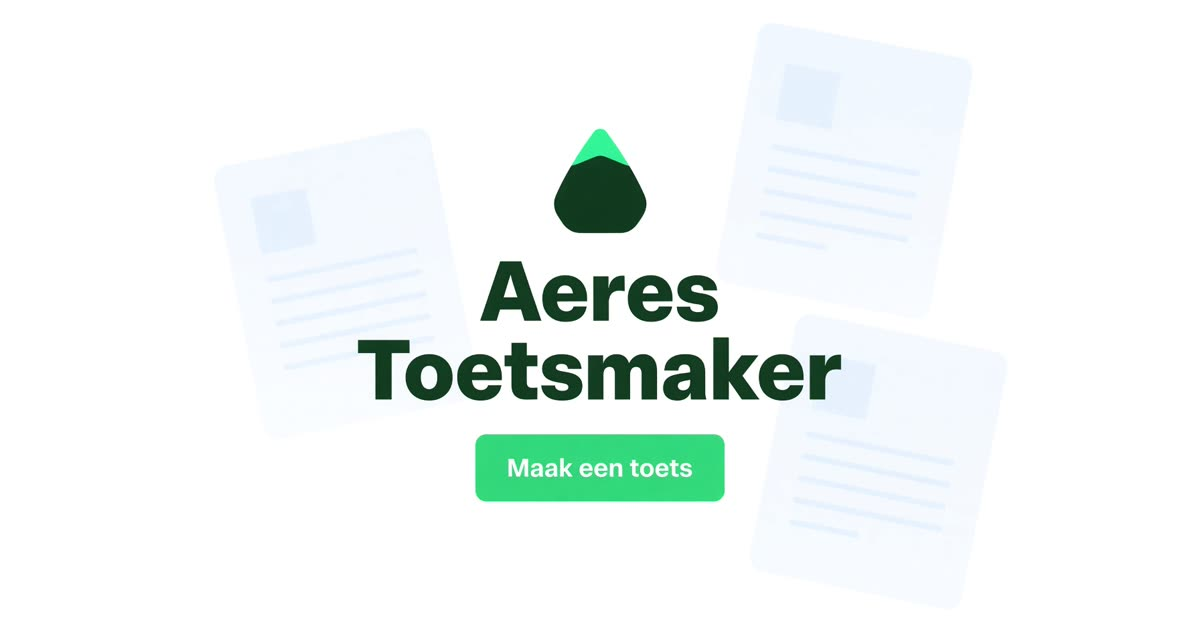
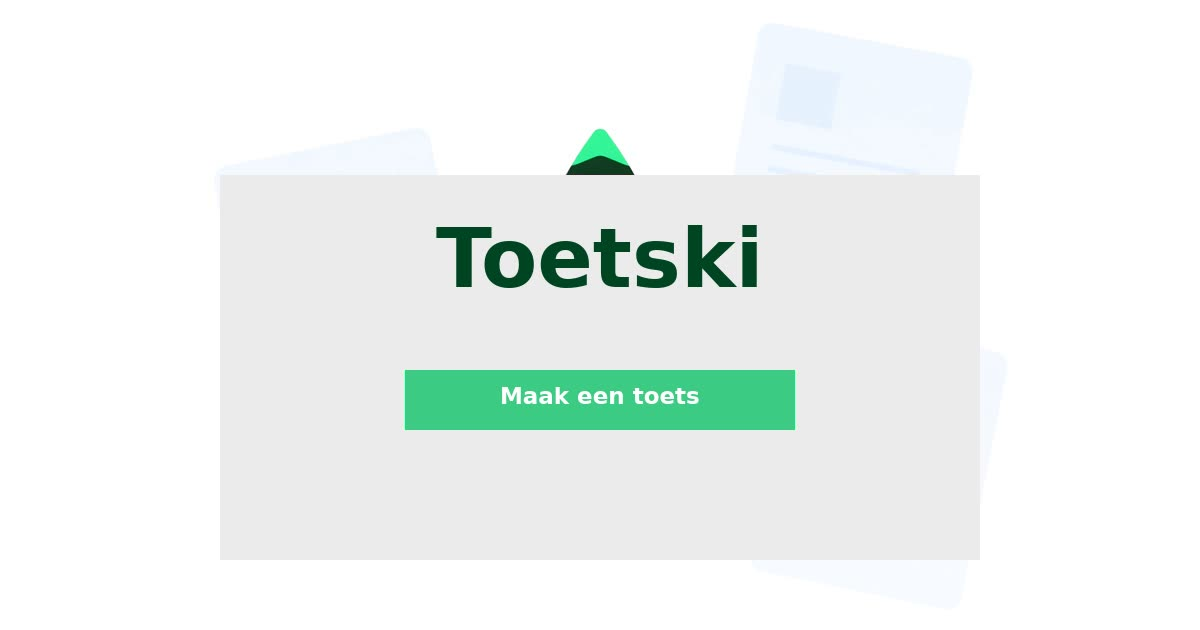
Rebrand app as Toetski (#58)

Changed region(s): [[0.2775, 0.2714, 0.7092, 0.8143]]

diff --git a/src/lib/toets/docx-export.ts b/src/lib/toets/docx-export.ts
@@ -17,7 +17,7 @@ import {
   Footer,
   VerticalAlign,
 } from "docx";
-import { RTTI_META, RTTI_ORDER, SCHOOL } from "./constants";
+import { RTTI_META, RTTI_ORDER } from "./constants";
 import { cesuurPunten, formuleTekst, modelLabel, omzetTabel, voldoendeHint } from "./cijfer";
 import { totaalPunten } from "./rtti";
 import { slug } from "./text";
@@ -267,7 +267,7 @@ function metaPair(label: string, value: string) {
 }
 
 
-function schoolLeerlingChrome() {
+function pageNumberChrome() {
   return {
     headers: {
       default: new Header({ children: [new Paragraph({ children: [] })] }),
@@ -286,37 +286,6 @@ function schoolLeerlingChrome() {
     },
   };
 }
-
-function headerFooter(label: string) {
-  return {
-    headers: {
-      default: new Header({
-        children: [
-          new Paragraph({
-            children: [
-              new TextRun({ text: SCHOOL, font: "Arial", size: 16, color: GREEN, bold: true }),
-              new TextRun({ text: `  ·  ${label}`, font: "Arial", size: 16, color: MUTED }),
-            ],
-          }),
-        ],
-      }),
-    },
-    footers: {
-      default: new Footer({
-        children: [
-          new Paragraph({
-            alignment: AlignmentType.RIGHT,
-            children: [
-              new TextRun({ text: "blad ", font: "Arial", size: 16, color: MUTED }),
-              new TextRun({ children: [PageNumber.CURRENT], font: "Arial", size: 16, color: MUTED }),
-            ],
-          }),
-        ],
-      }),
-    },
-  };
-}
-
 
 /** Voorblad-cel: label + waarde (of invullijn). */
 function voorbladCel(
@@ -395,19 +364,12 @@ function voorbladBlocks(toets: GegenereerdeToets): (Paragraph | Table)[] {
     }),
     new TableRow({
       children: [
-        voorbladCel("Totaal te behalen punten", String(max), { width: w }),
-        voorbladCel("School", m.school || SCHOOL, { width: w }),
-      ],
-    }),
-    new TableRow({
-      children: [
         voorbladCel("Cesuur", `5,5 bij ${cesuur} punten`, { width: w }),
         voorbladCel("", "", { width: w }),
       ],
     }),
   ];
   return [
-    p(SCHOOL, { bold: true, size: 28, after: 200 }),
     new Table({ width: { size: 9360, type: WidthType.DXA }, columnWidths: [w, w], rows }),
     new Paragraph({
       children: [new PageBreak()],
@@ -712,7 +674,7 @@ function kwaliteitParagrafen(toets: GegenereerdeToets): (Paragraph | Table)[] {
   const out: (Paragraph | Table)[] = [
     heading(`Feedback · ${t.meta.titel}`),
     sub(`${t.meta.vak} · ${t.meta.leerweg} klas ${t.meta.leerjaar}`),
-    p("Kwaliteitscheck van Aeres Toetsmaker.", { italics: true }),
+    p("Kwaliteitscheck van Toetski.", { italics: true }),
     p(t.kwaliteit.samenvatting || "Geen samenvatting."),
   ];
   for (const k of t.kwaliteit.punten) {
@@ -745,13 +707,13 @@ function cijferParagrafen(toets: GegenereerdeToets): (Paragraph | Table)[] {
   return cijferParagrafenVan(max, t.cijferNorm, `Cijferomzetting · ${t.meta.titel}`, modelLabel(t.cijferNorm.model));
 }
 
-function docOf(children: (Paragraph | Table)[], label: string) {
+function docOf(children: (Paragraph | Table)[]) {
   return new Document({
     styles: { default: { document: { run: { font: FONT, size: BODY_SIZE } } } },
     sections: [
       {
         properties: { page: { size: PAGE_A4, margin: PAGE_MARGINS } },
-        ...headerFooter(label),
+        ...pageNumberChrome(),
         children,
       },
     ],
@@ -776,25 +738,25 @@ async function saveDoc(doc: Document, filename: string) {
 
 export async function downloadMatrijsDocx(toets: GegenereerdeToets) {
   const t = withDefaults(toets);
-  await saveDoc(docOf(matrijsBlocks(t), `Toetsmatrijs versie ${t.meta.versie}`), `${slug(t.meta.titel)}-matrijs.docx`);
+  await saveDoc(docOf(matrijsBlocks(t)), `${slug(t.meta.titel)}-matrijs.docx`);
 }
 
 export async function downloadCijferDocx(toets: GegenereerdeToets) {
   const t = withDefaults(toets);
-  await saveDoc(docOf(cijferParagrafen(t), "Cijferomzetting"), `${slug(t.meta.titel)}-cijfer.docx`);
+  await saveDoc(docOf(cijferParagrafen(t)), `${slug(t.meta.titel)}-cijfer.docx`);
 }
 
 export async function downloadCijferTabelDocx(opts: { titel?: string; max: number; norm: CijferNorm }) {
   const titel = opts.titel?.trim() || "Cijferomzetting";
   await saveDoc(
-    docOf(cijferParagrafenVan(opts.max, opts.norm, titel, modelLabel(opts.norm.model)), "Cijferomzetting"),
+    docOf(cijferParagrafenVan(opts.max, opts.norm, titel, modelLabel(opts.norm.model))),
     `${slug(titel)}-${opts.norm.model}-${opts.max}p.docx`,
   );
 }
 
 export async function downloadKwaliteitDocx(toets: GegenereerdeToets) {
   const t = withDefaults(toets);
-  await saveDoc(docOf(kwaliteitParagrafen(t), `Feedback · ${t.meta.titel}`), `${slug(t.meta.titel)}-feedback.docx`);
+  await saveDoc(docOf(kwaliteitParagrafen(t)), `${slug(t.meta.titel)}-feedback.docx`);
 }
 
 export async function downloadPakketDocx(toets: GegenereerdeToets) {
@@ -809,10 +771,10 @@ export async function pakketDocument(toets: GegenereerdeToets): Promise<Document
   return new Document({
     styles: { default: { document: { run: { font: FONT, size: BODY_SIZE } } } },
     sections: [
-      { properties: { page: { size: PAGE_A4, margin: PAGE_MARGINS } }, ...schoolLeerlingChrome(), children: leerling },
-      { properties: { page: { size: PAGE_A4, margin: PAGE_MARGINS } }, ...schoolLeerlingChrome(), children: nakijkParagrafen(t) },
-      { properties: { page: { size: PAGE_A4, margin: PAGE_MARGINS } }, ...headerFooter("Toetsmatrijs"), children: matrijsBlocks(t) },
-      { properties: { page: { size: PAGE_A4, margin: PAGE_MARGINS } }, ...headerFooter("Cijferomzetting"), children: cijferParagrafen(t) },
+      { properties: { page: { size: PAGE_A4, margin: PAGE_MARGINS } }, ...pageNumberChrome(), children: leerling },
+      { properties: { page: { size: PAGE_A4, margin: PAGE_MARGINS } }, ...pageNumberChrome(), children: nakijkParagrafen(t) },
+      { properties: { page: { size: PAGE_A4, margin: PAGE_MARGINS } }, ...pageNumberChrome(), children: matrijsBlocks(t) },
+      { properties: { page: { size: PAGE_A4, margin: PAGE_MARGINS } }, ...pageNumberChrome(), children: cijferParagrafen(t) },
     ],
   });
 }
@@ -821,5 +783,5 @@ export async function pakketDocument(toets: GegenereerdeToets): Promise<Document
 export async function downloadLeerlingDocx(toets: GegenereerdeToets) {
   const t = withDefaults(toets);
   const leerling = await toetsParagrafen(t);
-  await saveDoc(docOf(leerling, `Toets versie ${t.meta.versie}`), `${slug(t.meta.titel)}-versie-${t.meta.versie}.docx`);
+  await saveDoc(docOf(leerling), `${slug(t.meta.titel)}-versie-${t.meta.versie}.docx`);
 }

diff --git a/src/lib/toets/generate.ts b/src/lib/toets/generate.ts
@@ -1,7 +1,6 @@
 import { afwerkBudget } from "./voortgang";
 import { createServerFn } from "@tanstack/react-start";
 import { z } from "zod";
-import { SCHOOL } from "./constants";
 import { cesuurPunten, formuleTekst } from "./cijfer";
 import { bouwMatrijs, normaliseer, somVerdeling, totaalPunten } from "./rtti";
 import { bijschavenInputSchema, bijschavenPayloadSchema, extraQuestionsInputSchema, extraQuestionsPayloadSchema, generateInputSchema, generatedPayloadSchema, matrijsInputSchema, matrijsPayloadSchema } from "./schema";
@@ -120,7 +119,7 @@ async function fetchBronUrl(url: string): Promise<string> {
     method: "GET",
     redirect: "follow",
     signal: AbortSignal.timeout(8000),
-    headers: { "User-Agent": "AeresToetsmaker/1.0" },
+    headers: { "User-Agent": "Toetski/1.0" },
   });
   if (!res.ok) throw new Error(`De link gaf een fout (${res.status}).`);
   const type = res.headers.get("content-type") ?? "";
@@ -499,7 +498,7 @@ async function rondAf(data: GenerateData, bron: string, payload: GeneratedPayloa
       leerweg: payload.meta.leerweg ?? data.leerweg,
       leerjaar: (Math.min(4, Math.max(1, Math.round(payload.meta.leerjaar ?? data.leerjaar))) || 2) as 1 | 2 | 3 | 4,
       duurMinuten: payload.meta.duurMinuten || data.duurMinuten,
-      school: SCHOOL,
+      school: "",
       hulpmiddelen: payload.meta.hulpmiddelen,
       instructies: payload.meta.instructies,
       onderwerp: payload.meta.onderwerp || data.titel || payload.meta.titel,
@@ -676,7 +675,7 @@ ${bron}`;
           leerweg: payload.meta.leerweg ?? data.leerweg,
           leerjaar: (Math.min(4, Math.max(1, Math.round(payload.meta.leerjaar ?? data.leerjaar))) || 2) as 1 | 2 | 3 | 4,
           duurMinuten: 50,
-          school: SCHOOL,
+          school: "",
           hulpmiddelen: [],
           instructies: [],
           onderwerp: payload.meta.onderwerp || payload.meta.titel,

diff --git a/src/lib/toets/text.ts b/src/lib/toets/text.ts
@@ -1,4 +1,4 @@
-import { RTTI_META, SCHOOL } from "./constants";
+import { RTTI_META } from "./constants";
 import { totaalPunten } from "./rtti";
 import type { GegenereerdeToets } from "./types";
 
@@ -28,7 +28,7 @@ export function kwaliteitAlsTekst(toets: GegenereerdeToets): string {
     "let op": "LET OP",
   };
   const regels = [
-    `Kwaliteitscheck van Aeres Toetsmaker bij «${toets.meta.titel}»`,
+    `Kwaliteitscheck van Toetski bij «${toets.meta.titel}»`,
     k.samenvatting ? `Samenvatting: ${k.samenvatting}` : "",
     "",
     "Pas de toets aan op punten met LET OP, AANDACHT of ONTBREEKT. Wat VOLDOET, laat staan.",
@@ -56,7 +56,6 @@ export function toetsAlsTekst(toets: GegenereerdeToets): string {
   const max = totaalPunten(toets.vragen);
   const m = toets.meta;
   const lines: string[] = [
-    SCHOOL,
     `${m.vak} · ${m.leerweg} · klas ${m.leerjaar}`,
     m.titel,
     `Tijd: ${m.duurMinuten} minuten · Maximumscore: ${max} punten`,
@@ -75,7 +74,7 @@ export function toetsAlsTekst(toets: GegenereerdeToets): string {
 }
 
 export function nakijkAlsTekst(toets: GegenereerdeToets): string {
-  const lines: string[] = [SCHOOL, `Correctievoorschrift · ${toets.meta.vak} · ${toets.meta.titel}`, ""];
+  const lines: string[] = [`Correctievoorschrift · ${toets.meta.vak} · ${toets.meta.titel}`, ""];
   for (const n of toets.nakijkmodel) {
     const q = toets.vragen.find((v) => v.nummer === n.nummer);
     lines.push(`Vraag ${n.nummer}  (${q?.punten ?? "?"}p)  ${q ? RTTI_META[q.rtti].kort : ""}`);

diff --git a/src/lib/toets/review236.test.ts b/src/lib/toets/review236.test.ts
@@ -3,7 +3,7 @@
  */
 import { describe, it } from "node:test";
 import assert from "node:assert/strict";
-import { SCHOOL, APP_NAME } from "./constants.ts";
+import { APP_NAME } from "./constants.ts";
 import { bevatSchoolnaam, borgFiguurVerwijzingen, onopgeloste, verwijderSchoolnamen } from "./context-regels.ts";
 import { repareerItemsDeterministisch, detecteerItemIssues } from "./item-kwaliteit.ts";
 import { finalizeVragen } from "./mc-balance.ts";
@@ -36,9 +36,9 @@ const open = (nummer: number, stam: string, extra: Partial<Vraag> = {}): Vraag =
 const nk = (nummer: number, modelantwoord: string, punten = 1): NakijkItem => ({ nummer, modelantwoord, puntenverdeling: [{ punt: punten, criterium: "juist" }] });
 
 describe("7. schoolnaam nooit in vragen", () => {
-  it("branding heet Aeres (niet Ares058); de systeemprompt noemt geen school", () => {
-    assert.equal(SCHOOL, "Aeres VMBO Leeuwarden");
-    assert.doesNotMatch(APP_NAME, /Ares058/);
+  it("branding heet Toetski; de systeemprompt noemt geen school", () => {
+    assert.equal(APP_NAME, "Toetski");
+    assert.doesNotMatch(APP_NAME, /Aeres|Ares058/);
     assert.doesNotMatch(bouwSystemPrompt(), /voor (Aeres|Ares058)|leerbedrijf Ares058|kas van Aeres/);
     assert.doesNotMatch(stuurdocumentTekst(), /leerbedrijf Ares058/);
     assert.match(stuurdocumentTekst(), /NOOIT de naam van de school/);

diff --git a/src/routes/__root.tsx b/src/routes/__root.tsx
@@ -6,10 +6,11 @@ import {
 } from "@tanstack/react-router";
 import { AuthProvider } from "@/lib/auth/provider";
 import { PreviewHostBridge } from "@/components/preview-host-bridge";
+import { APP_NAME } from "@/lib/toets/constants";
 import { Toaster } from "sonner";
 import appCss from "../styles.css?url";
 
-const APP_NAME = "Aeres Toetsmaker";
+const APP_DESCRIPTION = "Toetski: maak duidelijke toetsen, nakijkmodellen en toetsmatrijzen.";
 
 export const Route = createRootRoute({
   head: () => ({
@@ -19,10 +20,15 @@ export const Route = createRootRoute({
       { title: APP_NAME },
       {
         name: "description",
-        content:
-          "Toetsmaker voor Aeres VMBO Leeuwarden: Cito-opmaak, nakijkmodel en RTTI-toetsmatrijs.",
+        content: APP_DESCRIPTION,
       },
       { name: "theme-color", content: "#004422" },
+      { property: "og:title", content: APP_NAME },
+      { property: "og:description", content: APP_DESCRIPTION },
+      { property: "og:site_name", content: APP_NAME },
+      { name: "twitter:card", content: "summary_large_image" },
+      { name: "twitter:title", content: APP_NAME },
+      { name: "twitter:description", content: APP_DESCRIPTION },
     ],
     links: [
       { rel: "icon", type: "image/svg+xml", href: "/favicon.svg" },

diff --git a/src/components/layout/app-shell.tsx b/src/components/layout/app-shell.tsx
@@ -4,7 +4,7 @@ import { LeafMark } from "@/components/brand/mark";
 import { cn } from "@/lib/utils";
 
 const TABS = [
-  { to: "/", label: "Toetsmaker", exact: true },
+  { to: "/", label: "Toetski", exact: true },
   { to: "/matrijsmaker", label: "Matrijsmaker" },
   { to: "/cijfer", label: "Cijfer" },
 ] as const;
@@ -50,7 +50,7 @@ export function AppShell({
           <Link to="/werkwijze" className="font-semibold text-brand hover:opacity-80">
             Werkwijze
           </Link>
-          {" · "}Aeres VMBO Leeuwarden · docent controleert altijd inhoud en cesuur.
+          {" · "}Powered by Grok · a Nicko Swald product
         </p>
       </footer>
     </div>
@@ -85,7 +85,7 @@ function Brand() {
     <Link to="/" onClick={onClick} className="flex items-center gap-2.5 text-brand">
       <LeafMark className="size-8 shrink-0" />
       <span className="text-lg tracking-tight sm:text-xl">
-        <span className="font-bold">Aeres</span> <span className="font-medium">Toetsmaker</span>
+        <span className="font-bold">Toetski</span>
       </span>
     </Link>
   );

diff --git a/src/lib/toets/sample.ts b/src/lib/toets/sample.ts
@@ -1,9 +1,8 @@
-import { SCHOOL } from "./constants";
 import { bouwMatrijs } from "./rtti";
 import type { GegenereerdeToets } from "./types";
 
 export const VOORBEELD_LESSTOF = `Lesstof klas 2 KB Biologie — Fotosynthese en ademhaling
-Aeres VMBO Leeuwarden, praktijkkas.
+Een praktijkkas.
 
 Fotosynthese is het proces waarbij groene planten glucose en zuurstof maken. Daarvoor hebben ze water, koolstofdioxide (CO₂) en licht nodig. De woordvergelijking is:
 
@@ -23,7 +22,6 @@ Leerdoelen
 `;
 
 export const VOORBEELD_TOETS_TEKST = `Toets Biologie klas 2 KB — Fotosynthese
-Aeres VMBO Leeuwarden · 50 minuten · 20 punten
 
 1. Wat is fotosynthese? Geef een omschrijving in één of twee zinnen. (2p)
 
@@ -217,7 +215,7 @@ export function maakVoorbeeldToets(): GegenereerdeToets {
       leerweg: "KB",
       leerjaar: 2,
       duurMinuten: 50,
-      school: SCHOOL,
+      school: "",
       hulpmiddelen: ["Geen biologieboek"],
       instructies: [
         "Deze toets bestaat uit 8 vragen. Het maximumscore is 19 punten.",

diff --git a/src/lib/toets/defaults.ts b/src/lib/toets/defaults.ts
@@ -1,5 +1,5 @@
 import { DEFAULT_CIJFER } from "./cijfer";
-import { SCHOOL, normalizeLeerweg } from "./constants";
+import { normalizeLeerweg } from "./constants";
 import type { GegenereerdeToets } from "./types";
 
 export function withDefaults(t: GegenereerdeToets): GegenereerdeToets {
@@ -14,8 +14,8 @@ export function withDefaults(t: GegenereerdeToets): GegenereerdeToets {
     meta: {
       ...t.meta,
       leerweg: normalizeLeerweg(t.meta.leerweg),
-      // Oude toetsen: verkeerd gespelde schoolnaam in de kop rechtzetten.
-      school: !t.meta.school || /ares\s*0?58/i.test(t.meta.school) ? SCHOOL : t.meta.school,
+      // Schoolnamen horen niet bij de gegenereerde toets of export.
+      school: "",
       versie: t.meta.versie ?? "A",
       moeilijkheid: t.meta.moeilijkheid ?? "normaal",
       hulpmiddelen: t.meta.hulpmiddelen ?? [],

diff --git a/src/components/toets/matrijs-sheet.tsx b/src/components/toets/matrijs-sheet.tsx
@@ -1,4 +1,4 @@
-import { RTTI_META, RTTI_ORDER, SCHOOL } from "@/lib/toets/constants";
+import { RTTI_META, RTTI_ORDER } from "@/lib/toets/constants";
 import { cesuurPunten } from "@/lib/toets/cijfer";
 import { totaalPunten } from "@/lib/toets/rtti";
 import type { GegenereerdeToets } from "@/lib/toets/types";
@@ -12,9 +12,7 @@ export function MatrijsSheet({ toets }: { toets: GegenereerdeToets }) {
   return (
     <article className="rounded-[var(--radius-xl)] bg-paper p-6 sm:p-8">
       <h2 className="text-2xl font-bold text-brand">Toetsmatrijs · schriftelijke toets</h2>
-      <p className="mt-1 text-sm text-muted">
-        RTTI · versie {t.meta.versie} · {SCHOOL}
-      </p>
+      <p className="mt-1 text-sm text-muted">RTTI · versie {t.meta.versie}</p>
 
       <dl className="mt-6 grid gap-2 text-sm sm:grid-cols-2">
         <div>

diff --git a/src/components/toets/toets-sheet.tsx b/src/components/toets/toets-sheet.tsx
@@ -23,7 +23,6 @@ export function ToetsSheet({
   for (const q of toets.vragen) if (q.figuur && blokkenVoorVraag(q).includes("figuur")) figuurNr.set(q.figuur.id, figuurNr.size + 1);
   return (
     <article className="rounded-[var(--radius-xl)] bg-paper p-6 shadow-[var(--shadow-sheet)] sm:p-10">
-      <p className="text-sm font-semibold text-brand">{m.school}</p>
       <h1 className="mt-2 text-3xl font-bold tracking-tight text-brand">{m.titel}</h1>
       <p className="mt-2 text-sm text-muted">
         {m.vak} · {m.leerweg} klas {m.leerjaar} · versie {m.versie} · {m.duurMinuten} min · {max}{" "}

diff --git a/src/components/toets/stuur-editor.tsx b/src/components/toets/stuur-editor.tsx
@@ -6,7 +6,7 @@ import { Textarea } from "@/components/ui/textarea";
 import { CONSTRUCTOR_SLEUTEL_HASH, hashSleutel, stuurdocumentTekst } from "@/lib/toets/stuurdocument";
 import { useToetsStore } from "@/store/toets-store";
 
-const OPEN_KEY = "ares058-stuur-open";
+const OPEN_KEY = "toetski-stuur-open";
 
 export function StuurEditor() {
   const opgeslagen = useToetsStore((s) => s.stuurdocument);

diff --git a/src/lib/toets/constants.ts b/src/lib/toets/constants.ts
@@ -1,7 +1,6 @@
 import type { Leerweg, Moeilijkheid, Rtti, RttiVerdeling, ToetsVersie } from "./types";
 
-export const SCHOOL = "Aeres VMBO Leeuwarden";
-export const APP_NAME = "Aeres Toetsmaker";
+export const APP_NAME = "Toetski";
 
 export const LEERWEGEN: { id: Leerweg; label: string; hint: string }[] = [
   { id: "BB", label: "BB", hint: "Basis" },
